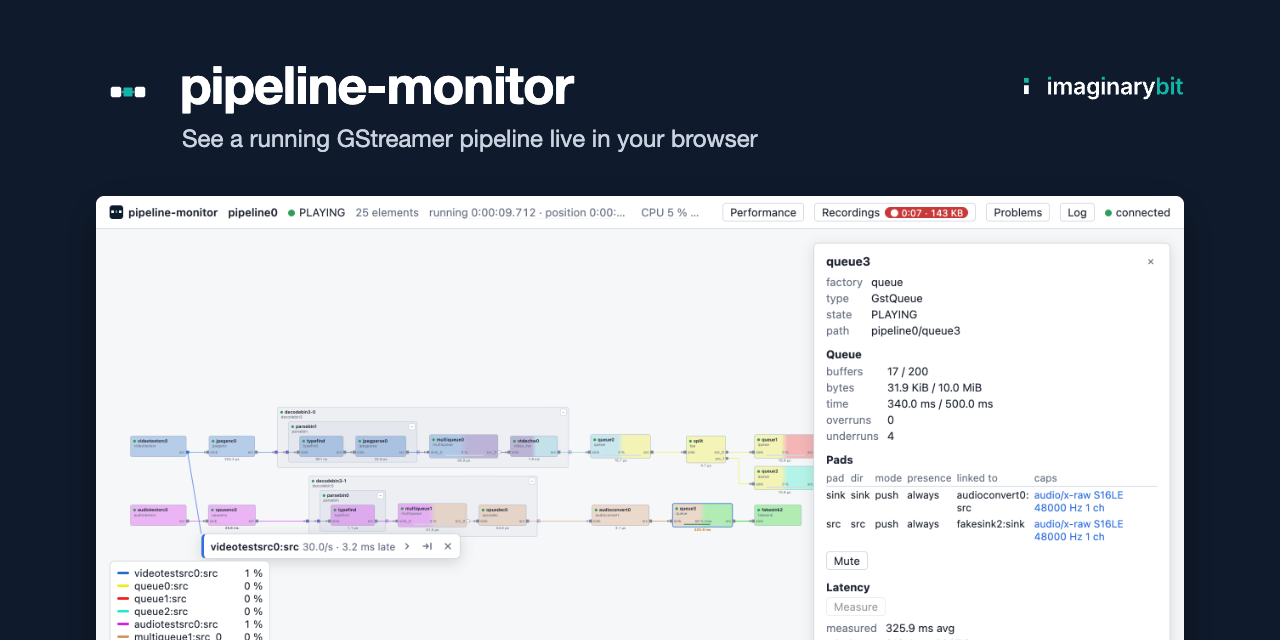
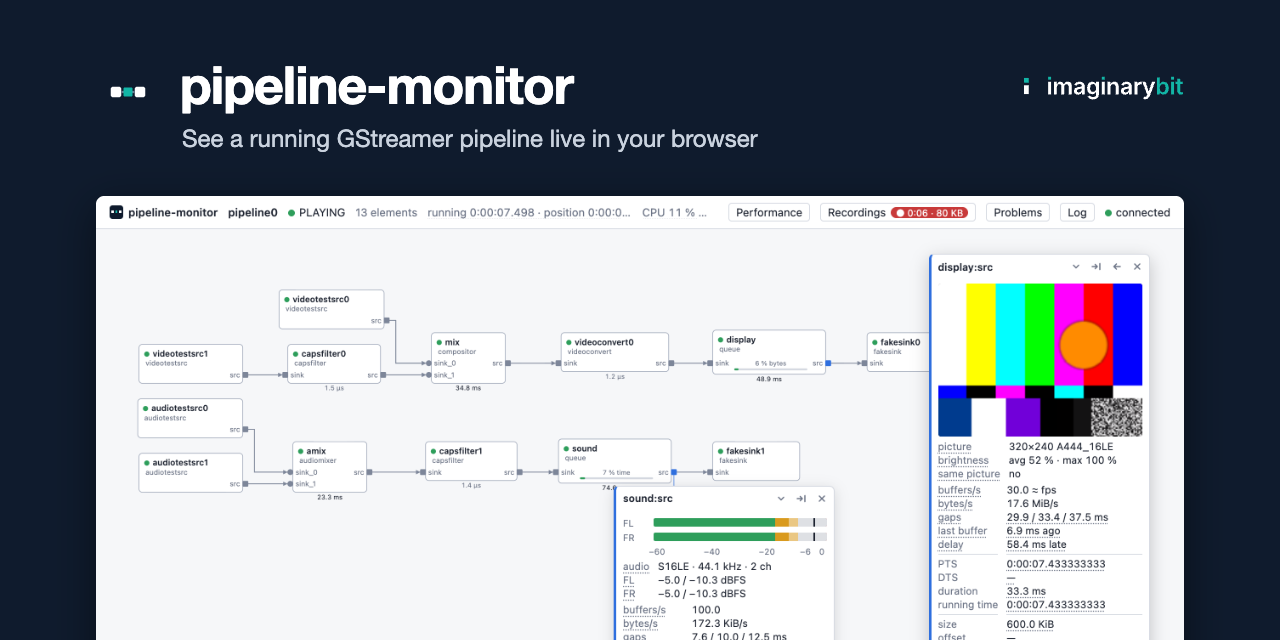
Screenshot and front picture for 0.14

diff --git a/README.md b/README.md
@@ -2,7 +2,7 @@
 
 See a running GStreamer pipeline live in your browser.
 
-![pipeline-monitor recording a pipeline in the threads view: each element in the colour of the thread that runs it, latency under every element, a pinned pad's live values, and the audio queue's level, latency and properties](.github/screenshot.png)
+![pipeline-monitor recording a pipeline: a pinned video pad showing its picture (colour bars with an orange ball), a pinned audio pad with its stereo level meter, and latency under every element](.github/screenshot.png)
 
 Short videos: [Fix your GStreamer pipeline](https://www.youtube.com/playlist?list=PLHYOr70akpmI)
 on YouTube, one problem per episode.

diff --git a/site/guide/tour.md b/site/guide/tour.md
@@ -33,6 +33,9 @@
 - **Pinned pads:** click a pad to pin it: a card with buffers per second,
   gaps, the last buffer's age and timestamps, its delay against the
   clock. Fold, move or close the card.
+
+![A pinned video pad with its picture, and a pinned audio pad with its level meter](images/media.png)
+
 - **Pictures and levels:** pin a pad of raw video for a small picture of
   it once a second, with its brightness, black frames, and how long the
   picture has stayed exactly the same (a frozen source or a stuck
